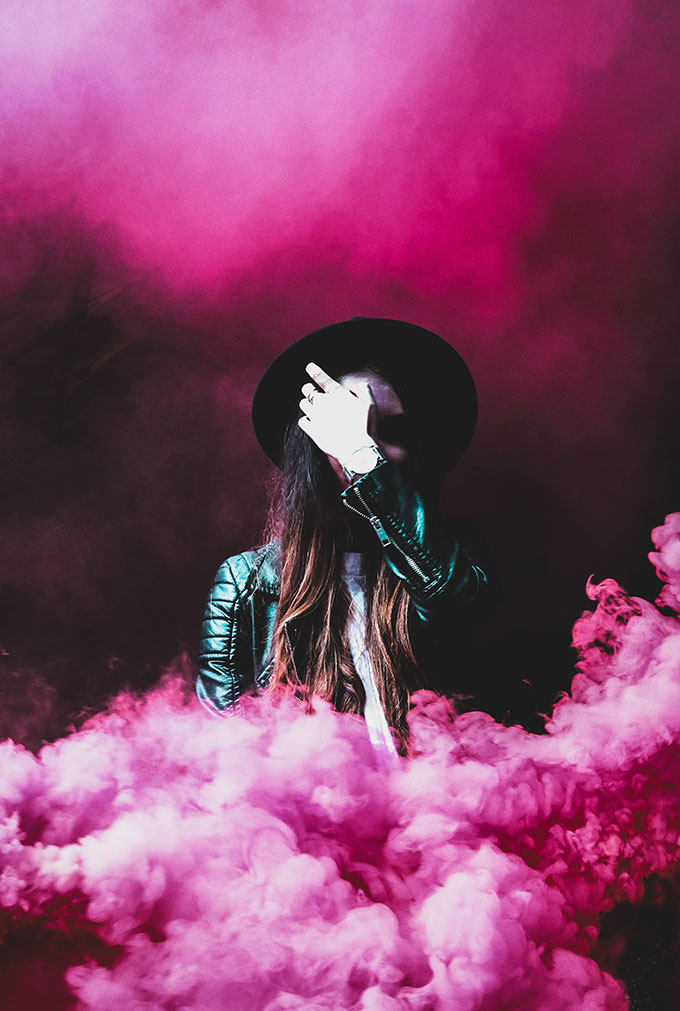
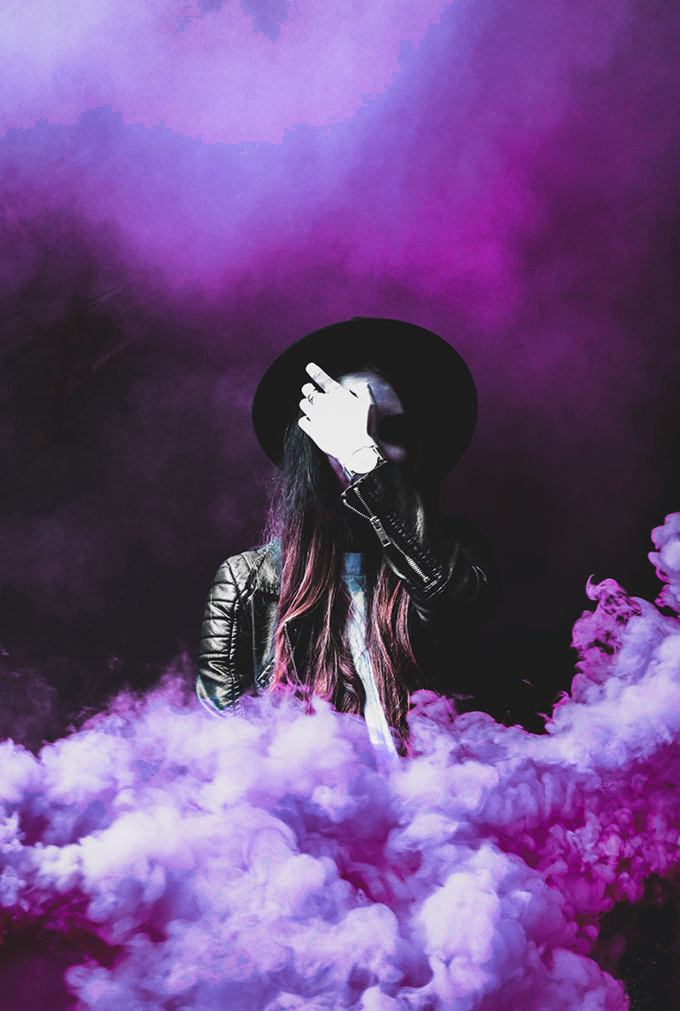
Minor UI tweaks

diff --git a/css/style.css b/css/style.css
@@ -23,15 +23,14 @@ body {
     width: 100%;
     min-height: 100vh;
     max-height: 100vh;
+    overflow: hidden;
     background-color: black;
-
     display: flex;
 }
 
 .sidebar-container {
-    flex: 1 1 0;
+    flex: 4 1 0;
     background: url("../assets/img/sidebar-background.jpg") center center/cover no-repeat;
-
     position: relative;
 }
 
@@ -55,10 +54,7 @@ body {
 .logo-text {
     font-size: clamp(28px, 3vw, 40px);
     color: #f8d1ff;
-    text-shadow:
-        0 0 7px hsl(300, 90%, 30%),
-        0 0 10px hsl(300, 90%, 30%),
-        0 0 15px hsl(300, 92%, 25%);
+    text-shadow: 0 0 7px #8b03bbcc, 0 0 10px #8b03bbcc, 0 0 15px #8b03bb;
     padding-top: 10px;
     margin-left: -7px;
 }
@@ -70,7 +66,7 @@ body {
 }
 
 .form-container {
-    flex: 2 3 0;
+    flex: 7 3 0;
     overflow: auto;
     padding: 130px 70px;
 }
@@ -124,7 +120,7 @@ body {
 .form-controls input:focus {
     /* styles for focus state */
     padding-left: 10px;
-    border: 1px solid #c54487;
+    border: 1px solid #8b03bb;
     outline: none;
 }
 
@@ -136,8 +132,8 @@ input:focus:not(:placeholder-shown):invalid {
 input:not(:focus):not(:placeholder-shown):valid {
     /* styles for out-of-focus + not empty + valid state */
     padding-left: 6px;
-    background-color: #c544874f;
-    border: 1px solid #c54487;
+    background-color: #8a03bb40;
+    border: 1px solid #8b03bb;
 }
 
 input:not(:focus):not(:placeholder-shown):invalid {
@@ -189,13 +185,13 @@ input#confirm-password:not(:placeholder-shown):invalid + span::after {
     border: none;
     border-radius: 20px;
     color: white;
-    background-color: #ba03ba;
-    box-shadow: 0 8px 15px rgb(185 2 185 / 50%);
+    background-color: #8b03bb;
     transition: ease-in-out .3s;
 }
 
 .submit-button:hover {
     scale: 1.05;
+    box-shadow: 0 8px 15px #8b03bb7a;
 }
 
 .submit-button:active {
@@ -209,9 +205,9 @@ input#confirm-password:not(:placeholder-shown):invalid + span::after {
 }
 
 .login a {
-    color: #ff00f6;
+    color: #8b03bb;
     text-decoration: none;
-    text-shadow: 0 0 7px hsl(300, 90%, 30%), 0 0 10px hsl(300, 90%, 30%), 0 0 15px hsl(300, 92%, 25%);
+    text-shadow:  0 0 7px #8a03bb56, 0 0 10px #8b03bb63, 0 0 15px #8a03bb49;
 }
 
 .login a:hover {
